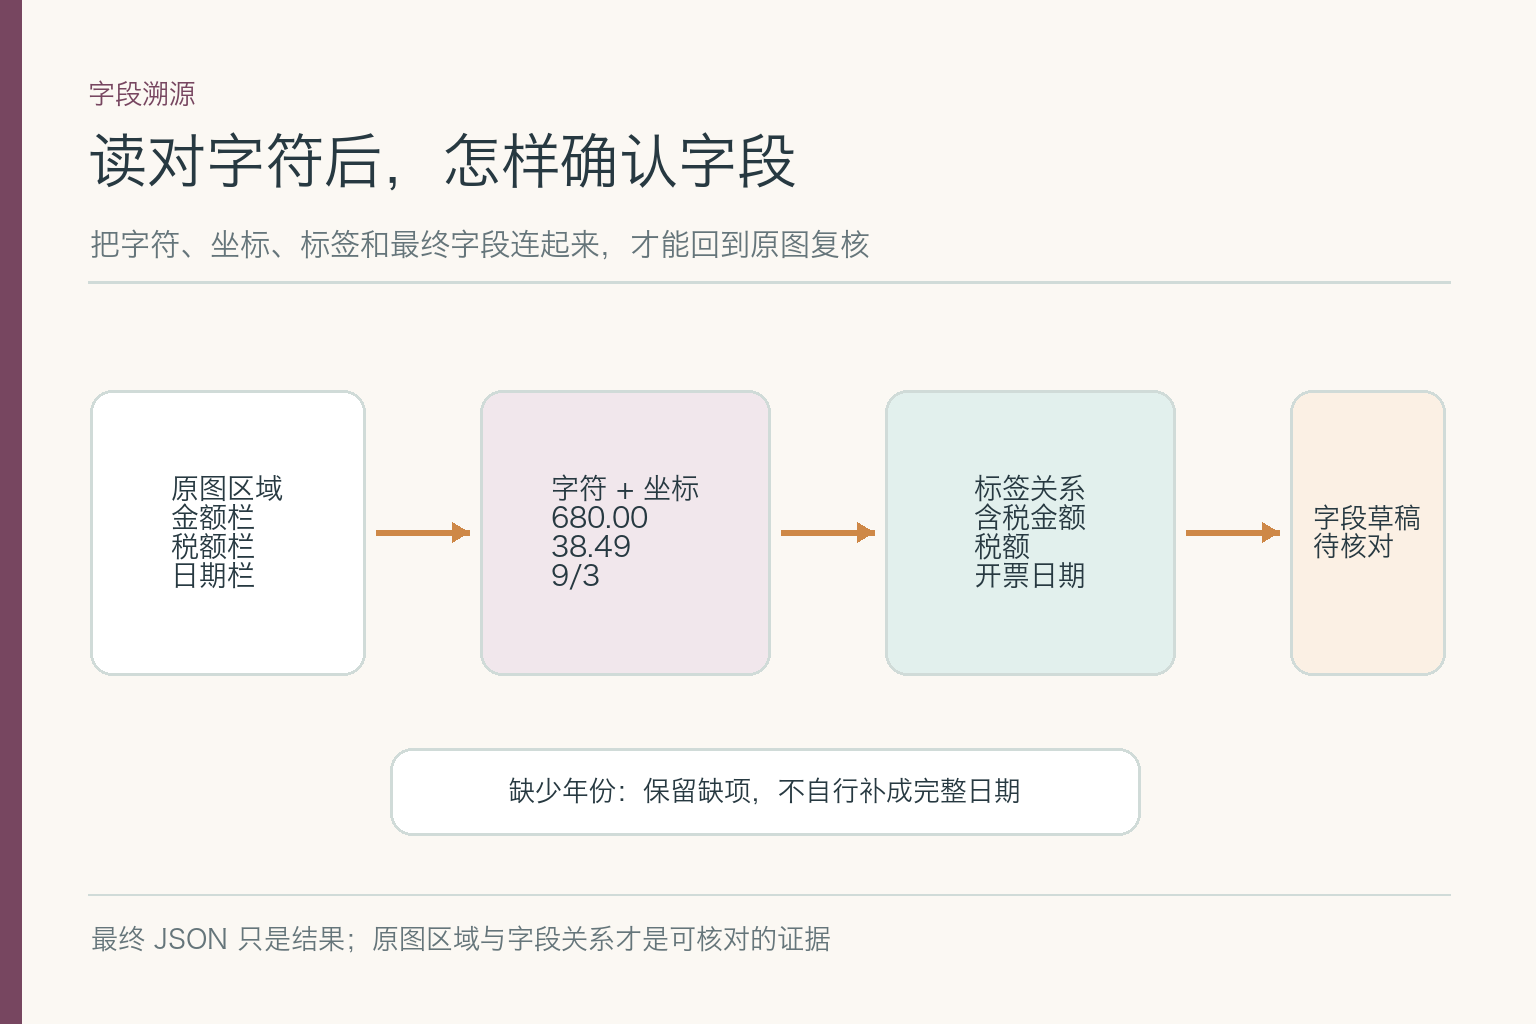
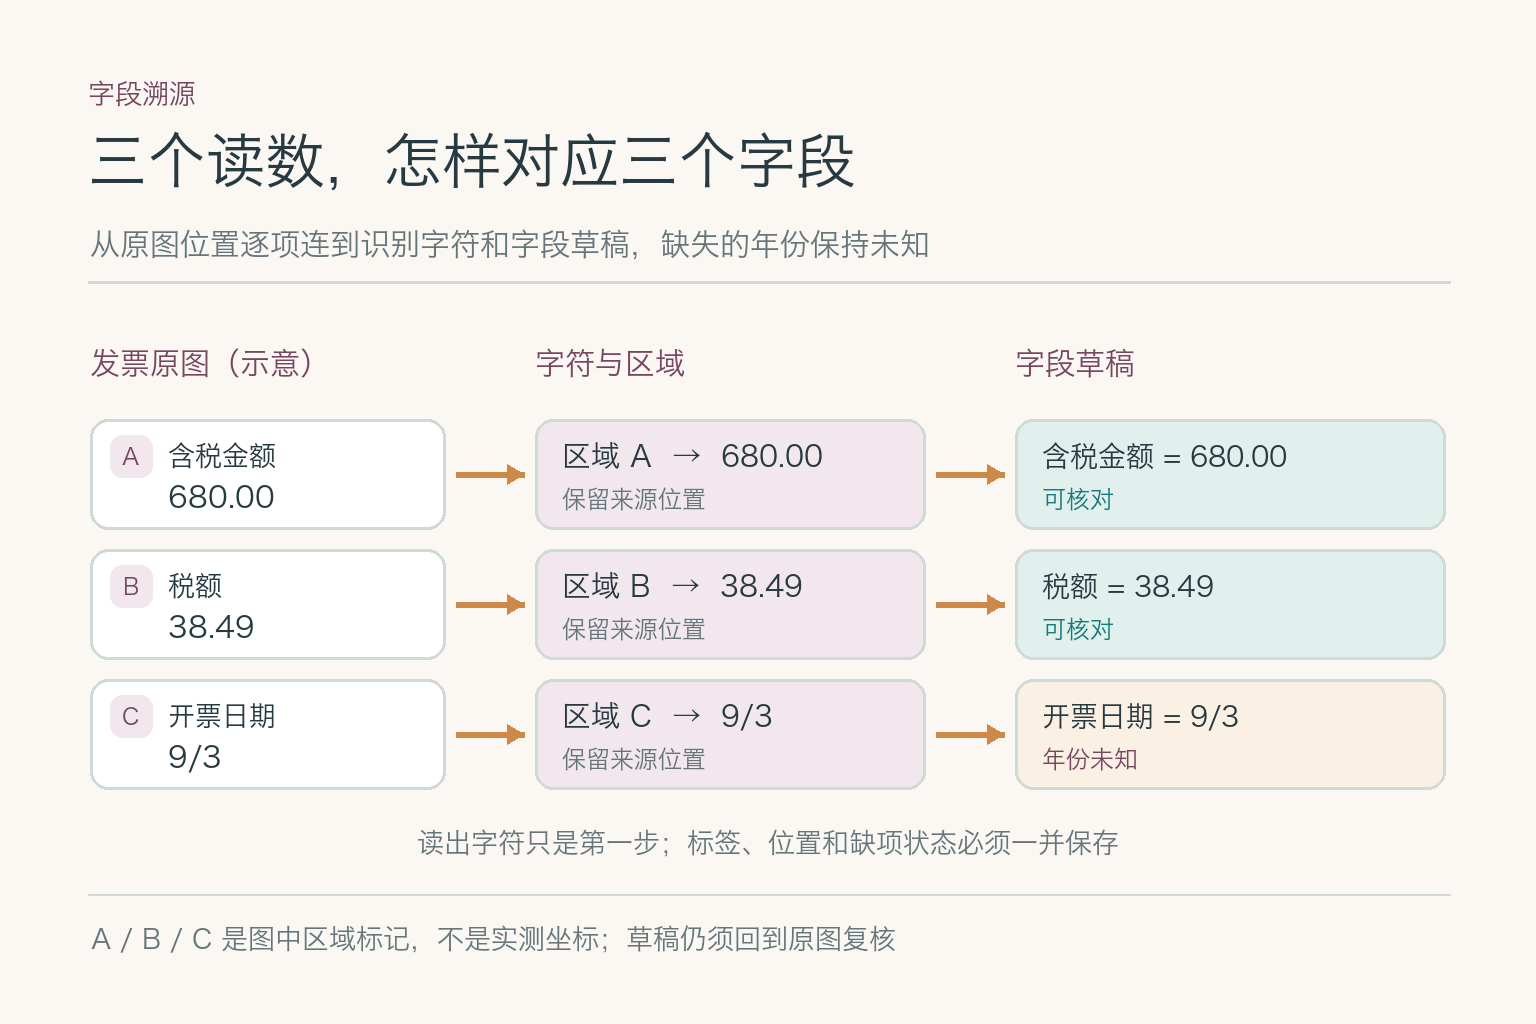
Refine multimodal article diagrams and remove decorative stripes

diff --git a/scripts/render-foundation-figure-fixes.py b/scripts/render-foundation-figure-fixes.py
@@ -60,7 +60,7 @@ def arrow(draw, start, end, color=TEAL, width=6):
 def base(title, subtitle, category, footnote):
     im = Image.new("RGB", (W, H), PAPER)
     d = ImageDraw.Draw(im)
-    d.rectangle((0, 0, 21, H), fill=PLUM)
+    # Keep the outer margin plain; a full-height decorative stripe adds no information.
     label(d, (88, 80), category, 27, PLUM)
     label(d, (88, 131), title, 59)
     label(d, (90, 228), subtitle, 30, MUTED)
@@ -72,6 +72,10 @@ def base(title, subtitle, category, footnote):
 
 def save(im, relative):
     path = ROOT / relative
+    paper_rgb = Image.new("RGB", (1, 1), PAPER).getpixel((0, 0))
+    left_margin = im.crop((0, 0, 60, H))
+    if left_margin.getextrema() != tuple((channel, channel) for channel in paper_rgb):
+        raise ValueError(f"Decorative mark in the left margin: {relative}")
     path.parent.mkdir(parents=True, exist_ok=True)
     im.save(path, optimize=True)
 
@@ -270,19 +274,38 @@ def llm_context_conflict():
 
 def multimodal_field_trace():
     im, d = base(
-        "读对字符后，怎样确认字段",
-        "把字符、坐标、标签和最终字段连起来，才能回到原图复核",
+        "三个读数，怎样对应三个字段",
+        "从原图位置逐项连到识别字符和字段草稿，缺失的年份保持未知",
         "字段溯源",
-        "最终 JSON 只是结果；原图区域与字段关系才是可核对的证据",
+        "A / B / C 是图中区域标记，不是实测坐标；草稿仍须回到原图复核",
     )
-    box(d, (90, 390, 365, 675), "原图区域\n金额栏\n税额栏\n日期栏", "#FFFFFF", 28)
-    box(d, (480, 390, 770, 675), "字符 + 坐标\n680.00\n38.49\n9/3", PLUM_PALE, 28)
-    box(d, (885, 390, 1175, 675), "标签关系\n含税金额\n税额\n开票日期", TEAL_PALE, 28)
-    box(d, (1290, 390, 1445, 675), "字段草稿\n待核对", ORANGE_PALE, 27)
-    arrow(d, (376, 532), (469, 532), ORANGE)
-    arrow(d, (781, 532), (874, 532), ORANGE)
-    arrow(d, (1186, 532), (1279, 532), ORANGE)
-    box(d, (390, 748, 1140, 835), "缺少年份：保留缺项，不自行补成完整日期", "#FFFFFF", 27)
+    for x, heading in ((90, "发票原图（示意）"), (535, "字符与区域"), (1015, "字段草稿")):
+        label(d, (x, 347), heading, 30, PLUM)
+
+    rows = [
+        (474, "A", "含税金额", "680.00", "含税金额 = 680.00", "可核对", TEAL_PALE),
+        (604, "B", "税额", "38.49", "税额 = 38.49", "可核对", TEAL_PALE),
+        (734, "C", "开票日期", "9/3", "开票日期 = 9/3", "年份未知", ORANGE_PALE),
+    ]
+    for y, region, source_label, value, field_value, status, fill in rows:
+        d.rounded_rectangle((90, y-55, 445, y+55), radius=18, fill="#FFFFFF", outline=OUTLINE, width=3)
+        d.rounded_rectangle((110, y-39, 152, y+3), radius=12, fill=PLUM_PALE)
+        label(d, (131, y-18), region, 23, PLUM, "mm")
+        label(d, (168, y-18), source_label, 27, INK, "lm")
+        label(d, (168, y+22), value, 30, INK, "lm")
+
+        d.rounded_rectangle((535, y-55, 925, y+55), radius=18, fill=PLUM_PALE, outline=OUTLINE, width=3)
+        label(d, (562, y-18), f"区域 {region}  →  {value}", 29, INK, "lm")
+        label(d, (562, y+24), "保留来源位置", 24, MUTED, "lm")
+
+        d.rounded_rectangle((1015, y-55, 1445, y+55), radius=18, fill=fill, outline=OUTLINE, width=3)
+        label(d, (1042, y-18), field_value, 28, INK, "lm")
+        label(d, (1042, y+24), status, 24, TEAL if status == "可核对" else PLUM, "lm")
+
+        arrow(d, (456, y), (524, y), ORANGE)
+        arrow(d, (936, y), (1004, y), ORANGE)
+
+    label(d, (768, 843), "读出字符只是第一步；标签、位置和缺项状态必须一并保存", 27, MUTED, "mm")
     save(im, "submodules/02-multimodal/assets/multimodal-field-trace.png")
 
 
@@ -416,15 +439,162 @@ def multimodal_encoding():
     save(im, "submodules/02-multimodal/assets/multimodal-encoding.png")
 
 
+def multimodal_document():
+    im, d = base(
+        "同一页发票，要同时读四种线索",
+        "数值离开标签和所在区域，就可能填进错误字段",
+        "单据版面",
+        "发票为教学示意；字段数值沿用正文案例，不代表真实票据",
+    )
+    d.rounded_rectangle((370, 324, 1164, 857), radius=18, fill="#FFFFFF", outline=OUTLINE, width=3)
+    label(d, (410, 355), "酒店发票（示意）", 33)
+    label(d, (900, 355), "开票日期  9/3", 27)
+    label(d, (900, 393), "年份未标", 24, PLUM)
+    d.line((410, 435, 1125, 435), fill=OUTLINE, width=2)
+    d.rounded_rectangle((410, 467, 1125, 614), radius=12, fill=TEAL_PALE, outline=OUTLINE, width=2)
+    label(d, (438, 488), "项目", 26, MUTED)
+    label(d, (722, 488), "数量", 26, MUTED)
+    label(d, (893, 488), "含税金额", 26, MUTED)
+    d.line((430, 533, 1105, 533), fill=OUTLINE, width=2)
+    label(d, (438, 552), "住宿服务", 29)
+    label(d, (727, 552), "1", 29)
+    label(d, (908, 552), "680.00", 32, TEAL)
+    label(d, (452, 663), "税额", 28)
+    label(d, (940, 663), "38.49", 32, TEAL)
+    d.line((410, 725, 1125, 725), fill=OUTLINE, width=2)
+    label(d, (420, 762), "小字：开票信息以原件为准", 25, MUTED)
+    d.ellipse((985, 759, 1105, 831), outline=PLUM, width=3)
+    label(d, (1045, 795), "印章区", 23, PLUM, "mm")
+
+    for bounds, title, detail, target in [
+        ((90, 345, 336, 457), "版面", "标题与日期位置", (360, 382)),
+        ((1200, 477, 1445, 589), "表格", "列名决定金额含义", (1175, 540)),
+        ((90, 695, 336, 807), "小字", "说明不能略读", (360, 760)),
+        ((1200, 731, 1445, 843), "印章", "独立区域核验", (1175, 786)),
+    ]:
+        d.rounded_rectangle(bounds, radius=15, fill=PLUM_PALE, outline=OUTLINE, width=2)
+        label(d, (bounds[0]+20, bounds[1]+18), title, 30, PLUM)
+        label(d, (bounds[0]+20, bounds[1]+68), detail, 23, INK)
+        start = (bounds[2]+9, (bounds[1]+bounds[3])//2) if bounds[0] < 400 else (bounds[0]-9, (bounds[1]+bounds[3])//2)
+        arrow(d, start, target, TEAL, 4)
+    save(im, "submodules/02-multimodal/assets/multimodal-document.png")
+
+
+def multimodal_validation():
+    im, d = base(
+        "同样是读数，为什么日期不能通过",
+        "金额能解析，不等于缺少年份的日期也能补全",
+        "字段校验",
+        "业务规则还需制度和历史记录；图片本身不能证明可报销",
+    )
+    label(d, (92, 350), "模型读数", 29, PLUM)
+    label(d, (535, 350), "格式与字段关系", 29, PLUM)
+    label(d, (1070, 350), "可核对草稿", 29, PLUM)
+    box(d, (90, 397, 431, 572), "含税金额  680.00\n税额  38.49", "#FFFFFF", 29)
+    box(d, (535, 397, 945, 572), "金额格式可解析\n两项分别核对标签", TEAL_PALE, 28)
+    box(d, (1060, 397, 1445, 572), "保留两项读数\n等待原图复核", TEAL_PALE, 28)
+    arrow(d, (442, 485), (524, 485), ORANGE)
+    arrow(d, (956, 485), (1049, 485), ORANGE)
+    box(d, (90, 631, 431, 806), "开票日期  9/3", "#FFFFFF", 30)
+    box(d, (535, 631, 945, 806), "缺少年份\n不能通过完整日期校验", ORANGE_PALE, 27)
+    box(d, (1060, 631, 1445, 806), "保留 9/3\n年份 = 未知", ORANGE_PALE, 28)
+    arrow(d, (442, 719), (524, 719), ORANGE)
+    arrow(d, (956, 719), (1049, 719), ORANGE)
+    save(im, "submodules/02-multimodal/assets/multimodal-validation.png")
+
+
+def multimodal_alignment():
+    im, d = base(
+        "连接层能补回被缩掉的小字吗",
+        "同一张发票的两种输入方式，决定语言模型能看到哪些线索",
+        "面试原理",
+        "连接层映射已有视觉特征，不能从缺失的像素中还原发票小字",
+    )
+    box(d, (90, 469, 376, 661), "同一张发票\n含税金额 680.00\n税额 38.49", "#FFFFFF", 26)
+    label(d, (463, 347), "输入给视觉编码器", 27, PLUM)
+    label(d, (1070, 347), "连接层送入语言模型", 27, PLUM)
+    box(d, (485, 390, 954, 534), "整页缩得太小\n小字、小数点可能消失", ORANGE_PALE, 27)
+    box(d, (1060, 390, 1445, 534), "只能映射残缺特征\n回答易漏字段", ORANGE_PALE, 27)
+    box(d, (485, 609, 954, 753), "金额栏局部放大\n保留标签与 680.00", TEAL_PALE, 27)
+    box(d, (1060, 609, 1445, 753), "映射较清晰的特征\n仍须回原图复核", TEAL_PALE, 27)
+    arrow(d, (387, 554), (474, 462), ORANGE)
+    arrow(d, (387, 568), (474, 681), TEAL)
+    arrow(d, (965, 462), (1049, 462), ORANGE)
+    arrow(d, (965, 681), (1049, 681), TEAL)
+    label(d, (767, 825), "问题不在“说得不够流畅”，而在“看进去时已丢信息”", 27, MUTED, "mm")
+    save(im, "submodules/02-multimodal/assets/multimodal-alignment.png")
+
+
+def multimodal_ocr_vlm():
+    im, d = base(
+        "OCR 与视觉语言模型，各补哪块短板",
+        "同一张发票：认出字符与判断字段归属是两项检查",
+        "面试选型",
+        "两条路线都要回到原图；结果一致，也不能补出不存在的年份",
+    )
+    box(d, (90, 354, 488, 520), "发票原图\n680.00 · 38.49 · 9/3", "#FFFFFF", 29)
+    box(d, (655, 346, 1055, 492), "OCR\n给字符与文字框位置", PLUM_PALE, 27)
+    box(d, (655, 599, 1055, 745), "视觉语言模型\n给字段关系候选", TEAL_PALE, 27)
+    arrow(d, (499, 432), (644, 419), ORANGE)
+    arrow(d, (499, 440), (644, 672), ORANGE)
+    box(d, (1190, 353, 1445, 496), "字符是否读对？\n框在哪里？", "#FFFFFF", 24)
+    box(d, (1190, 601, 1445, 744), "金额和税额\n是否填反？", "#FFFFFF", 24)
+    arrow(d, (1066, 419), (1179, 419), PLUM)
+    arrow(d, (1066, 672), (1179, 672), TEAL)
+    box(d, (220, 775, 1295, 859), "组合：先定位字符，再判字段关系，最后按原图复核", ORANGE_PALE, 28)
+    save(im, "submodules/02-multimodal/assets/multimodal-ocr-vlm.png")
+
+
+def multimodal_document_diagnosis():
+    im, d = base(
+        "表格和小字，常在哪一步出错",
+        "对同一张发票，分别定位输入损失与关系错误",
+        "面试诊断",
+        "先判断信息是没看见、看错了，还是看见后配错字段",
+    )
+    cases = [
+        (395, "缩图过度", "小数点或小字消失", "保留原图，放大金额栏", PLUM_PALE),
+        (570, "拆开行列", "680.00 离开含税金额标签", "连同列名和坐标复核", TEAL_PALE),
+        (745, "日期缺项", "9/3 没写年份", "年份标未知，不自行补全", ORANGE_PALE),
+    ]
+    for y, source, failure, action, fill in cases:
+        box(d, (90, y-53, 395, y+53), source, "#FFFFFF", 31)
+        box(d, (520, y-53, 985, y+53), failure, fill, 29)
+        box(d, (1110, y-53, 1445, y+53), action, "#FFFFFF", 26)
+        arrow(d, (406, y), (509, y), ORANGE)
+        arrow(d, (996, y), (1099, y), TEAL)
+    save(im, "submodules/02-multimodal/assets/multimodal-document-diagnosis.png")
+
+
+def multimodal_evaluation():
+    im, d = base(
+        "评测别只看最终字段有没有填对",
+        "把错误拆到字符、字段归属与缺项处理，才知道怎么修",
+        "面试评测",
+        "只列评测维度与修复方向；图中没有虚构测试成绩",
+    )
+    cases = [
+        (395, "字符读错", "金额字符准确率", "补拍或放大原图", PLUM_PALE),
+        (570, "字段填反", "字段归属 + 区域定位", "核查标签与坐标", TEAL_PALE),
+        (745, "无据补年份", "缺项保留率", "年份未知，交人工补证", ORANGE_PALE),
+    ]
+    for y, error, measure, response, fill in cases:
+        box(d, (90, y-53, 395, y+53), error, "#FFFFFF", 31)
+        box(d, (520, y-53, 985, y+53), measure, fill, 29)
+        box(d, (1110, y-53, 1445, y+53), response, "#FFFFFF", 26)
+        arrow(d, (406, y), (509, y), ORANGE)
+        arrow(d, (996, y), (1099, y), TEAL)
+    save(im, "submodules/02-multimodal/assets/multimodal-evaluation.png")
+
+
 def main():
+    # These LLM images were later replaced with hand-reviewed, higher-detail figures.
+    # Keep their renderer functions for reproducibility, but do not overwrite the curated assets.
     for renderer in (
         embedding_chunking,
         embedding_evaluation,
         reranker_two_stage,
         reranker_evaluation,
-        llm_sampling,
-        llm_evidence_audit,
-        llm_context_conflict,
         multimodal_field_trace,
         embedding_metric_comparison,
         reranker_learning_objectives,
@@ -432,6 +602,12 @@ def main():
         adaptation_distillation,
         adaptation_lora,
         multimodal_encoding,
+        multimodal_document,
+        multimodal_validation,
+        multimodal_alignment,
+        multimodal_ocr_vlm,
+        multimodal_document_diagnosis,
+        multimodal_evaluation,
     ):
         renderer()
 

diff --git a/content/wechat/01-foundation-models-and-inference/submodules/02-multimodal/prompts.md b/content/wechat/01-foundation-models-and-inference/submodules/02-multimodal/prompts.md
@@ -1,16 +1,19 @@
 # 多模态模型子模块配图提示词
 
-版本：0.3.0；修订时间：2026-09-29 16:22 CST；依据提交：`549c2cc`（`main`；修订前仅有 Word 临时锁文件未跟踪）。
+版本：0.4.0；修订时间：2026-09-30 12:10 CST；依据提交：`e870cb0`（`main`；修订前有本次配图改动及未跟踪推文终稿目录）。阶段：重绘左侧装饰竖条及不符合正文图规范的配图，区分主文与面试图解。
 
-正文配图统一为 1536×1024 PNG；公众号封面图统一为 900×383 PNG。暖白背景，青绿、梅红、蓝色点缀，中文清晰，无水印、无 Logo。封面图使用内置图像生成工具；结构图 `multimodal-encoding.png` 与 `multimodal-field-trace.png` 由 `scripts/render-foundation-figure-fixes.py` 确定性绘制。
+正文配图统一为 1536×1024 PNG；公众号封面图统一为 900×383 PNG。暖白背景，青绿、梅红、蓝色点缀，中文清晰，无水印、无 Logo。封面图使用内置图像生成工具；下面标注“确定性绘制”的图由 `scripts/render-foundation-figure-fixes.py` 生成。正文图不使用左侧通高装饰竖条、渐变、立体阴影或没有信息意义的图标。
 
 1. `multimodal-cover-main-wechat.png`：主文封面图。标题“大话多模态模型”“一张发票为什么会读错”；反光发票、放大区域和字段卡片共同表达“读字不等于填对字段”。案例字段固定为日期“9/3（年份缺失）”、含税金额“680.00”和税额“38.49”，不得生成其他日期或金额。
 2. `multimodal-cover-interview-wechat.png`：面试副文封面图。标题“面试题：发票读对字”“为何还会填错字段”；展示 OCR 字符框、区域连线和字段卡片，并故意把已正确识别的 `680.00` 与 `38.49` 映射到错误字段，以解释字段关系错误；日期固定为“9/3（年份未知）”。
-3. `multimodal-encoding.png`：图片、声音、文字分别经视觉、音频、文本编码器得到各自特征，再按任务对齐或融合；具体模型可能只支持部分模态，不能暗示原始输入共用一个编码器。
-4. `multimodal-alignment.png`：视觉特征通过桥接层进入语言模型，标签“视觉编码器”“连接层”“语言模型”“回答”。
-5. `multimodal-document.png`：一页复杂单据被拆成“版面”“表格”“小字”“印章”四类观察对象。
-6. `multimodal-validation.png`：识别结果进入复核链，标签“模型提取”“格式校验”“业务规则”“人工复核”。
-7. `multimodal-field-trace.png`：字段溯源结构图。固定链路为“原图区域 → 字符与坐标 → 字段标签 → 字段草稿”，用金额 `680.00` 和税额 `38.49` 展示同一字符必须保留位置与标签关系。
+3. `multimodal-encoding.png`（确定性绘制）：图片、声音、文字分别经视觉、音频、文本编码器得到各自特征，再按任务对齐或融合；具体模型可能只支持部分模态，不能暗示原始输入共用一个编码器。主文使用，不为面试选型题重复此图。
+4. `multimodal-alignment.png`（确定性绘制）：面试原理对照图。同一张发票分别“整页缩小”和“金额栏局部放大”后交给视觉编码器；连接层只能映射已有视觉特征，不能补回已经丢失的小字与小数点。不暗示所有模型使用同一连接结构。
+5. `multimodal-document.png`（确定性绘制）：主文版面图。在同一张示意发票上标出“版面”“表格”“小字”“印章”四类观察区域，并呈现 `680.00`、`38.49`、`9/3` 与对应标签；不使用随机假文字或装饰放大镜。
+6. `multimodal-validation.png`（确定性绘制）：主文字段校验图。两条路径对照金额与税额可解析、但仍需回原图复核，和日期 `9/3` 缺少年份、只能保留原样与未知状态；不得把图片读数等同于报销批准。
+7. `multimodal-field-trace.png`（确定性绘制）：主副文共用的字段溯源图。三个并排路径分别连接发票示意区域 A/B/C、识别读数 `680.00` / `38.49` / `9/3` 与对应草稿字段；A/B/C 仅是图中示意标记，不是假造的测量坐标。箭头从来源到草稿，日期的“年份未知”不能消失。
 8. `multimodal-principle.png`：原理图。依据 [Visual Instruction Tuning / LLaVA](https://arxiv.org/abs/2304.08485) 第 3 节改绘。保留“图像 → 视觉编码器 → 投影层 → 语言模型”，文字指令另一路进入语言模型；省略训练目标与完整参数细节。图注：“依据 Liu 等，LLaVA 第 3 节改绘。”
+9. `multimodal-ocr-vlm.png`（确定性绘制）：面试选型图。基于同一发票，OCR 负责字符与文字框位置，视觉语言模型负责字段关系候选，最终仍须回原图核对。不得画成“VLM 必然比 OCR 准”。
+10. `multimodal-document-diagnosis.png`（确定性绘制）：面试诊断图。对照缩图过度、拆开行列、日期缺项三类不同原因与处理动作，避免把全部错误归结为模型不够大。
+11. `multimodal-evaluation.png`（确定性绘制）：面试评测图。字符读错、字段填反、无据补年份分别对应字符准确、字段归属与区域定位、缺项保留等不同评测维度；不得绘制没有数据来源的成绩或改善曲线。
 
-复核：已目视检查新图的中文、编码路径、字段溯源箭头和封面图中央安全区；正文不重复插入封面图。
+复核：逐张检查中文字、案例数值、箭头方向、区域标记、缺项状态和边缘留白；用窄屏缩略图检查标题、字段数值与主要结论的辨认度。主文与面试副文仅共用字段溯源图，正文不重复插入封面图。
